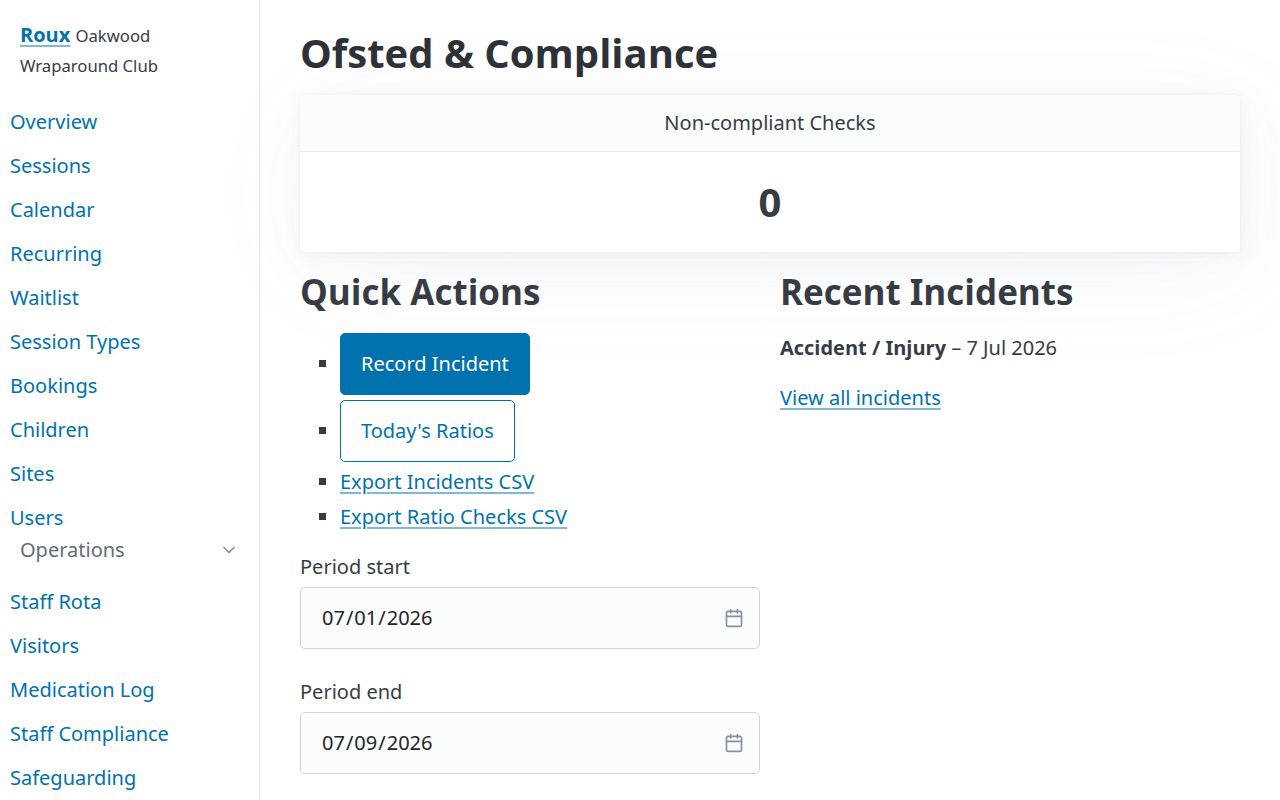
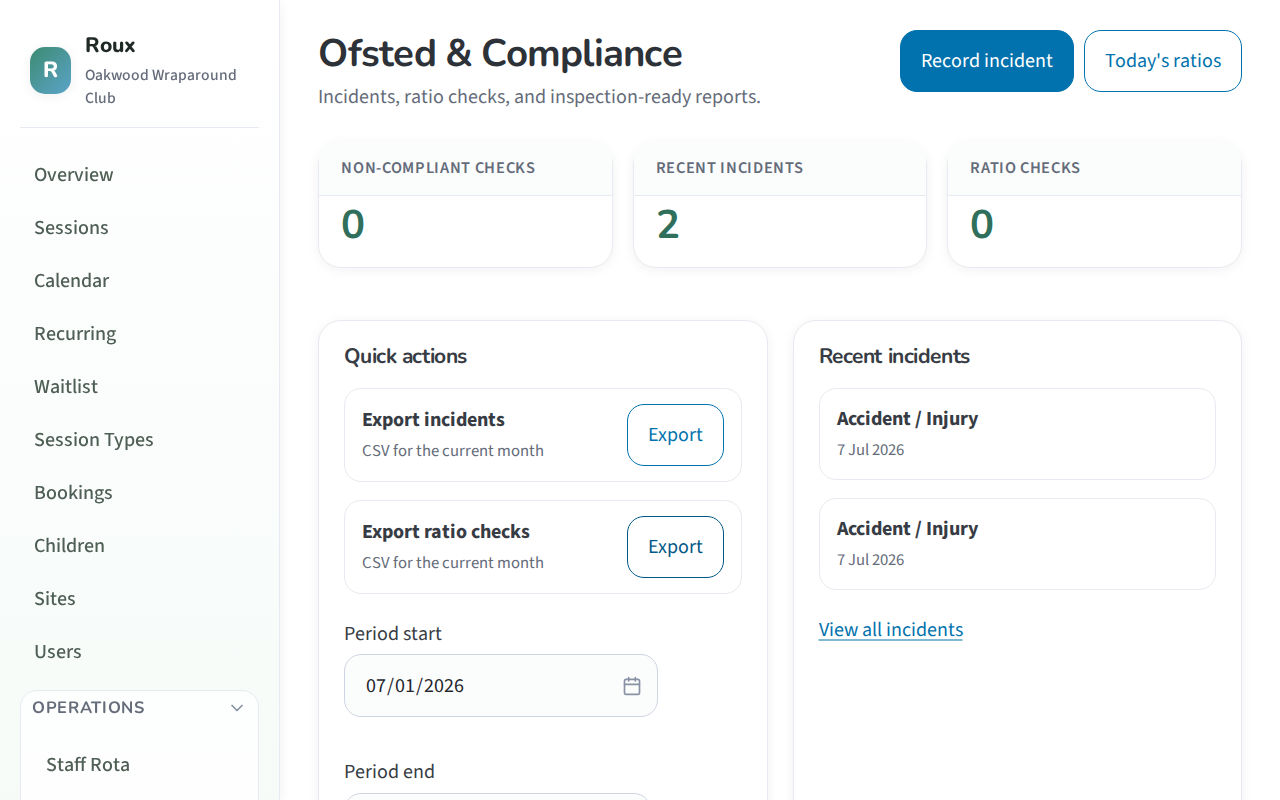
Update landing screenshots with modernized app UI

diff --git a/scripts/capture_landing_screenshots.py b/scripts/capture_landing_screenshots.py
@@ -95,7 +95,7 @@ def capture(base_url: str) -> None:
             page.wait_for_load_state("networkidle")
             page.wait_for_timeout(500)
             output = SCREENSHOT_DIR / filename
-            page.screenshot(path=str(output), full_page=filename != "public-homepage.png")
+            page.screenshot(path=str(output), full_page=False)
             print(f"Saved {output}")
             context.close()
 
